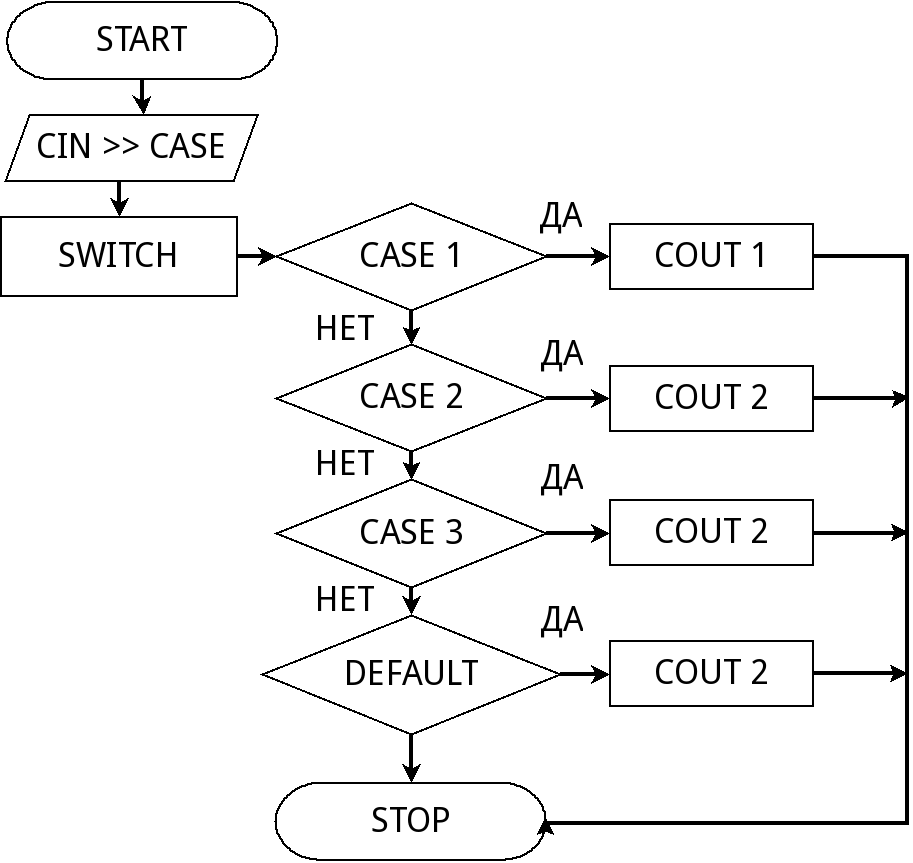
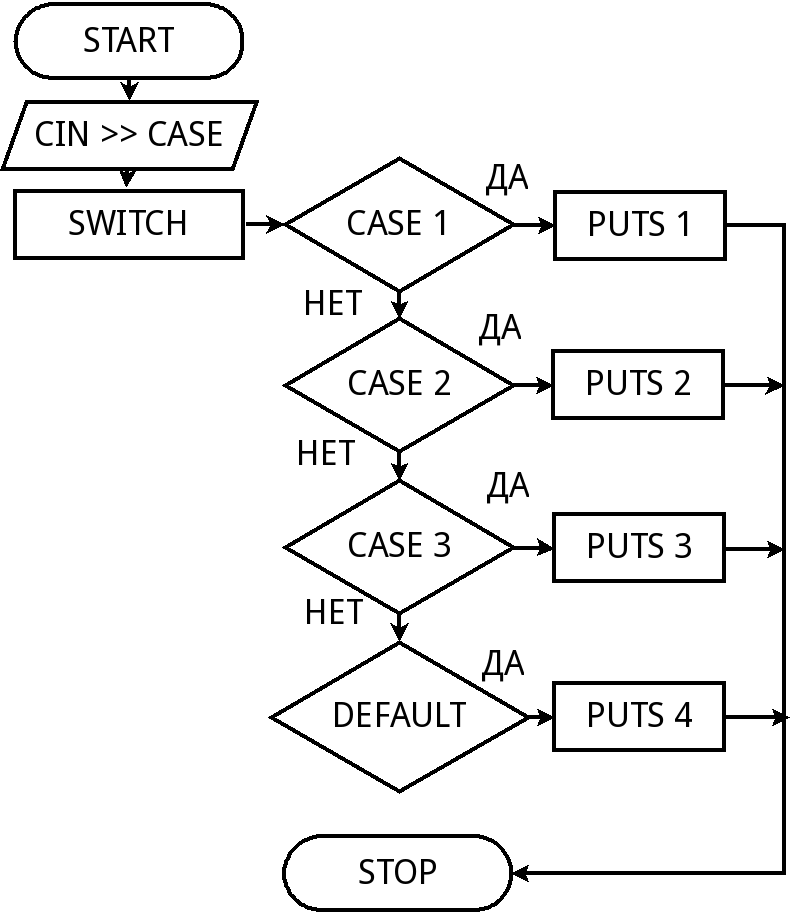
Update Swith/calc.cpp, Swith/colors.cpp switchCase.png

diff --git a/Lessons/FlowControlStatements/Swith/calc.cpp b/Lessons/FlowControlStatements/Swith/calc.cpp
@@ -1,41 +1,44 @@
-// -=-=-=-=-=-=-=-=-=-=-=-=-=-=-=-=-=-=-=-=-=-=-=-=-=-=-=-=-=-=-=-=-=-=-=-=-=//
-// Калькулятор, созданный с помощью операторов Switch-case
+// -=-=-=-=-=-=-=-=-=-=-=-=-=-=-=-=-=-=-=-=-=-=-=-=//
+// Калькулятор на Switch Case
+// calc.cpp
 // V 1.0
-// -=-=-=-=-=-=-=-=-=-=-=-=-=-=-=-=-=-=-=-=-=-=-=-=-=-=-=-=-=-=-=-=-=-=-=-=-=//
-#include<iostream>
+// -=-=-=-=-=-=-=-=-=-=-=-=-=-=-=-=-=-=-=-=-=-=-=-=//
+#include <iostream>
 using namespace std;
 
 int main() {
-    cout << "Калькулятор. Введите выражение типа 2+2\n";
-    double firstNum = 0, secondNum = 0;
+    puts("Калькулятор. Введите 1-е число, оператор и 2-е число через пробелы");
+    double firstNum = 0, secondNum = 0, result = 0;
     char op;
-    cin >> firstNum >> op >> secondNum;
+    cin >> ws >> firstNum >> ws >> op >> ws >> secondNum;
     switch (op)
     {
-        case '+':
-            cout << firstNum + secondNum << endl;
-            break;
-        case '-':
-            cout << firstNum - secondNum << endl;
-            break;
-        case '*':
-            cout << firstNum * secondNum << endl;
-            break;
-        case '/':
-            cout << firstNum / secondNum << endl;
-            break;
-        default:
-            cout << "Введите любой из арифметических операторов!" << endl;
-            break;
+    case '+':
+        result = firstNum + secondNum;
+        break;
+    case '-':
+        result = firstNum + secondNum;
+        break;
+    case '*':
+        result = firstNum * secondNum;
+        break;
+    case '/':
+        result = firstNum / secondNum;
+        break;
+    default:
+        puts("Что?");
+        break;
     }
+    cout << "Результат: " << result << endl;
     return 0;
 }
+// Д.З.
 // Output:
 /*
-Калькулятор. Введите выражение типа 2+2
-11/6
-1.83333
+Калькулятор. Введите 1-е число, оператор и 2-е число через пробелы
+8/7
+Результат: 1.14286
 */
-// -=-=-=-=-=-=-=-=-=-=-=-=-=-=-=-=-=-=-=-=-=-=-=-=-=-=-=-=-=-=-=-=//
+// -=-=-=-=-=-=-=-=-=-=-=-=-=-=-=-=-=-=-=-=-=-=-=-=//
 // END FILE
-// -=-=-=-=-=-=-=-=-=-=-=-=-=-=-=-=-=-=-=-=-=-=-=-=-=-=-=-=-=-=-=-=//
+// -=-=-=-=-=-=-=-=-=-=-=-=-=-=-=-=-=-=-=-=-=-=-=-=//

diff --git a/Lessons/FlowControlStatements/Swith/main.cpp b/Lessons/FlowControlStatements/Swith/main.cpp
@@ -1,40 +1,38 @@
 // -=-=-=-=-=-=-=-=-=-=-=-=-=-=-=-=-=-=-=-=-=-=-=-=-=-=-=-=-=-=-=-=-=-=-=-=-=//
-// Калькулятор, созданный с помощью операторов Switch-case
+// Калькулятор на Switch Case
+// calc.cpp SwitchCase
 // V 1.0
 // -=-=-=-=-=-=-=-=-=-=-=-=-=-=-=-=-=-=-=-=-=-=-=-=-=-=-=-=-=-=-=-=-=-=-=-=-=//
-#include<iostream>
+#include <iostream>
 using namespace std;
 
 int main() {
-    cout << "Калькулятор. Введите выражение типа 2+2\n";
-    double firstNum = 0, secondNum = 0;
+    puts("Калькулятор. Введите 1-е число, оператор и 2-число через пробелы");
+    double firstNum = 0, secondNum = 0, result = 0;
     char op;
-    cin >> firstNum >> op >> secondNum;
+    cin >> ws >> firstNum >> ws >> op >> ws >> secondNum;
     switch (op)
     {
-        case '+':
-            cout << firstNum + secondNum << endl;
-            break;
-        case '-':
-            cout << firstNum - secondNum << endl;
-            break;
-        case '*':
-            cout << firstNum * secondNum << endl;
-            break;
-        case '/':
-            cout << firstNum / secondNum << endl;
-            break;
-        default:
-            cout << "Введите любой из арифметических операторов!" << endl;
-            break;
+    case '+':
+        result = firstNum + secondNum;
+        break;
+    case '-':
+        result = firstNum - secondNum;
+        break;
+    default:
+        puts("Не понял!");
+        break;
     }
+    cout << "Результат: " << result << '\n';
     return 0;
 }
+// Д.З. Дописать программу, введя в неё умножение и деление
 // Output:
 /*
-Калькулятор. Введите выражение типа 2+2
-11/6
-1.83333
+Калькулятор. Введите 1-е число, оператор и 2-число через пробелы
+1+1
+Результат: 2
+TEXT
 */
 // -=-=-=-=-=-=-=-=-=-=-=-=-=-=-=-=-=-=-=-=-=-=-=-=-=-=-=-=-=-=-=-=//
 // END FILE

diff --git a/Lessons/FlowControlStatements/Swith/colors.cpp b/Lessons/FlowControlStatements/Swith/colors.cpp
@@ -1,5 +1,6 @@
 // -=-=-=-=-=-=-=-=-=-=-=-=-=-=-=-=-=-=-=-=-=-=-=-=-=-=-=-=-=-=-=-=-=-=-=-=-=//
 // Программа, выбора цвета по ANSI в терминале
+// colors.cpp SwitchCase
 // V 1.0
 // -=-=-=-=-=-=-=-=-=-=-=-=-=-=-=-=-=-=-=-=-=-=-=-=-=-=-=-=-=-=-=-=-=-=-=-=-=//
 #include <iostream>
@@ -24,33 +25,23 @@ const auto COLOR_MAGENTA   = "\033[35m"; // Пурпурный
 const auto COLOR_CYAN      = "\033[36m"; // Бирюзовый
 
 int main() {
-    cout << "Укажите нужный цвет\n";
-    cout << "Красный - a, Зелёный - b, Желтый - c, Синий - d, Пурпурный - i, Бирюзовый - f\n";
+    puts("Укажите нужный цвет: красный - r, зелёный - g, желтый - y");
     char userColour;
-    cin >> userColour;
+    cin >> ws >> userColour;
     switch (userColour)
     {
-        case 'a':
-            cout << COLOR_RED       << "TEXT" << endl;
-            break;
-        case 'b':
-            cout << COLOR_GREEN     << "TEXT" << endl;
-            break;
-        case 'c':
-            cout << COLOR_YELLOW    << "TEXT" << endl;
-            break;
-        case 'd':
-            cout << COLOR_BLUE      << "TEXT" << endl;
-            break;
-        case 'i':
-            cout << COLOR_MAGENTA   << "TEXT" << endl;
-            break;
-        case 'f':
-            cout << COLOR_CYAN      << "TEXT" << endl;
-            break;
-        default:
-             cout << "Вы не выбрали цвет!\n";
-             break;
+    case 'r':
+        cout << COLOR_RED << "TEXT\e[0m\n";
+        break;
+    case 'g':
+        cout << COLOR_GREEN << "TEXT\e[0m\n";
+        break;
+    case 'y':
+        cout << COLOR_YELLOW << "TEXT\e[0m\n";
+        break;
+    default:
+        puts("Вы не выбрали цвет!");
+        break;
     }
     return 0;
 }

diff --git a/Lessons/FlowControlStatements/Swith/elements.cpp b/Lessons/FlowControlStatements/Swith/elements.cpp
@@ -1,28 +1,28 @@
 // -=-=-=-=-=-=-=-=-=-=-=-=-=-=-=-=-=-=-=-=-=-=-=-=-=-=-=-=-=-=-=-=-=-=-=-=-=//
 // Программа, определяющаяя название химического элемента
+// elements.cpp SwitchCase
 // V 1.0
 // -=-=-=-=-=-=-=-=-=-=-=-=-=-=-=-=-=-=-=-=-=-=-=-=-=-=-=-=-=-=-=-=-=-=-=-=-=//
-#include<iostream>
+#include <iostream>
 using namespace std;
 
 int main() {
-    cout << "\nВведите количество протонов\n";
+    puts("Введите количество протонов");
     int userChoice = 0;
-    cin >> userChoice;
-    switch (userChoice)
-    {
-        case 1:
-            cout << "Это Водород\n";
-            break;
-        case 2:
-            cout << "Это Гелий\n";
-            break;
-        case 3:
-            cout << "Литий\n";
-            break;
-        default:
-            cout << "Такой элемент я ещё не знаю!\n";
-            break;
+    cin >> ws >> userChoice;
+    switch (userChoice) {
+    case 1:
+        puts("Это водород");
+        break;
+    case 2:
+        puts("Это Гелий");
+        break;
+    case 3:
+        puts("Это Литий");
+        break;
+    default:
+        puts("Это что-то другое");
+        break;
     }
     return 0;
 }

diff --git a/Lessons/FlowControlStatements/Swith/switchLike.cpp b/Lessons/FlowControlStatements/Swith/switchLike.cpp
@@ -1,5 +1,6 @@
 // -=-=-=-=-=-=-=-=-=-=-=-=-=-=-=-=-=-=-=-=-=-=-=-=-=-=-=-=-=-=-=-=-=-=-=-=-=//
 // Программа, определяющяя предпочтения пользователя
+// likeBrowsers.cpp SwitchCase
 // V 1.0
 // -=-=-=-=-=-=-=-=-=-=-=-=-=-=-=-=-=-=-=-=-=-=-=-=-=-=-=-=-=-=-=-=-=-=-=-=-=//
 #include<iostream>

diff --git a/Lessons/FlowControlStatements/Swith/menu.cpp b/Lessons/FlowControlStatements/Swith/menu.cpp
@@ -1,5 +1,6 @@
 // -=-=-=-=-=-=-=-=-=-=-=-=-=-=-=-=-=-=-=-=-=-=-=-=-=-=-=-=-=-=-=-=-=-=-=-=-=//
 // Простой пример меню с использованием конструкции Swith
+// menu.cpp SwitchCase
 // V 1.0
 // -=-=-=-=-=-=-=-=-=-=-=-=-=-=-=-=-=-=-=-=-=-=-=-=-=-=-=-=-=-=-=-=-=-=-=-=-=//
 #include<iostream>

diff --git a/Lessons/FlowControlStatements/If_Else/exit.cpp b/Lessons/FlowControlStatements/If_Else/exit.cpp
@@ -6,7 +6,7 @@
 using namespace std;
 
 int main() {
-    cout << "Ввежите число > 5" << endl;
+    cout << "Введите число > 5" << endl;
     int userInput;
     cin >> userInput;
     if (userInput <= 5) {

diff --git a/Lessons/FlowControlStatements/If_Else/main.cpp b/Lessons/FlowControlStatements/If_Else/main.cpp
@@ -10,6 +10,7 @@ int main() {
     return 0;
 }
 // Д.З.
+//
 // Output:
 /*
 
